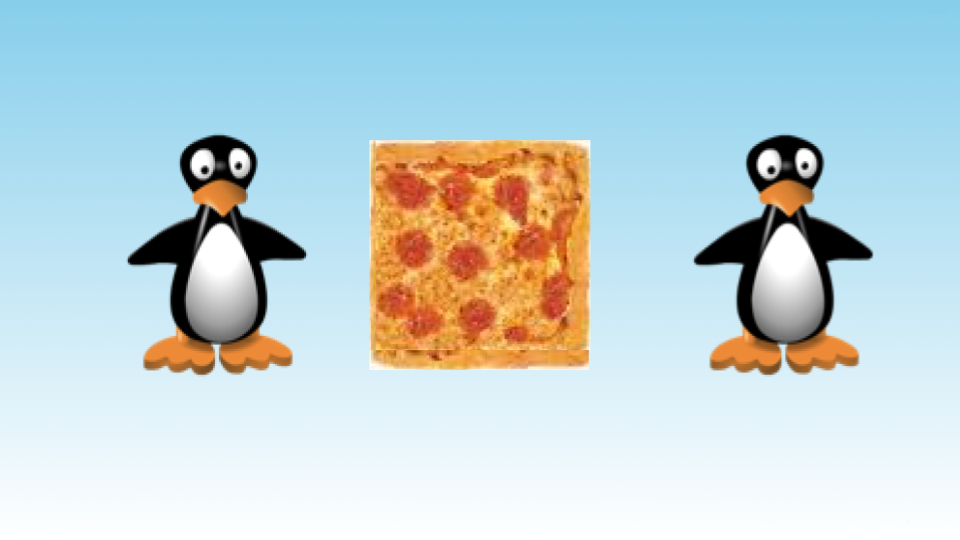
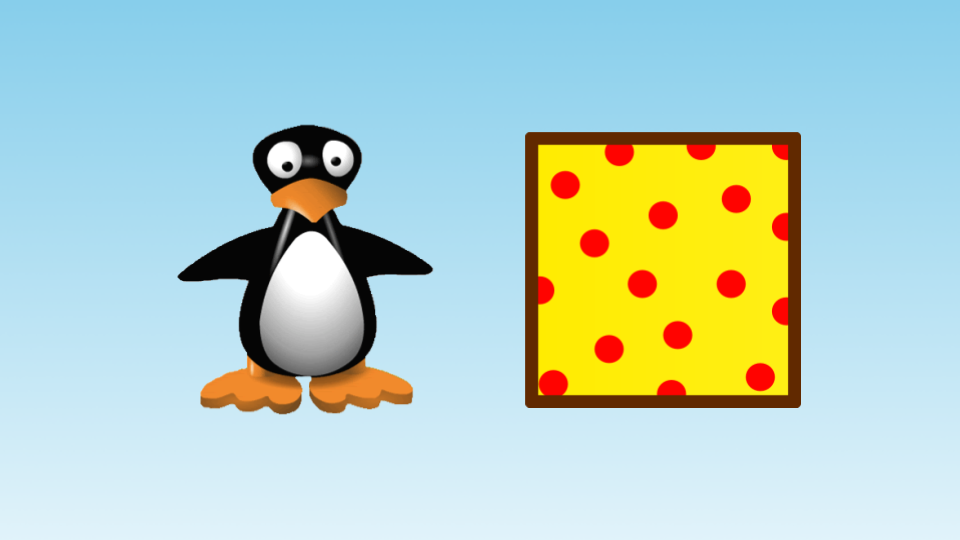
polish pass

diff --git a/src/components/ActivityCard.js b/src/components/ActivityCard.js
@@ -62,6 +62,13 @@ export default function ActivityCard(props) {
   const activitypath = '/activities/' + props.data.ID
   const pdf = `${props.PRINTOUTS}` 
 
+  console.log("printous",props.data)
+  const printouts = (props.data.PRINTOUTS && <Button className = "white"> 
+  <a target="_blank" className = "black-text" href = {`${props.data.PRINTOUTS}`}> 
+      Printouts
+  </a>
+  </Button>)
+
   return (
     <div className="card sticky-action">
     <div className="card-image waves-effect waves-block waves-light">
@@ -76,13 +83,8 @@ export default function ActivityCard(props) {
       <Link to = {props.data.TOOL}>
       <Button className = "white">Tool</Button>
       </Link>
-       <Button className = "white"> 
-        <a target="_blank" className = "black-text" href = {`${props.data.PRINTOUTS}`}> 
-            Printouts
-        </a>
-        </Button>
+      {printouts}
       </div>
-      
     <div className="card-reveal">
       <span className="card-title grey-text text-darken-4">{props.data.STANDARD_ID}<i className="material-icons right">close</i></span>
       <p>{props.data.DESCRIPTION}</p>

diff --git a/src/activitydata/gridnodes/building_non_unit_fractions.js b/src/activitydata/gridnodes/building_non_unit_fractions.js
@@ -1,6 +1,6 @@
 
 import {SCREEN_STATES,SCREEN_TYPES} from '../../js/states.js'
-import ICON from '../../assets/PizzaIcon.png'
+import ICON from '../../assets/BuildingIcon.png'
 
 const sequence = 
     [{
@@ -50,7 +50,7 @@ export const ACTIVITY = {
     ICON: ICON,
     TIME: 30,
     PAGES: 14,
-    TOOL: "/cuttinggridsnap4x4",
+    TOOL: "/gridnodes2x2",
     SCRIPT: "NODES_GRID",
     FEATURES: {x: 3,y: 3},
     MENU: ['Link One',"Link Two"],
@@ -62,7 +62,8 @@ export const ACTIVITY = {
     STANDARD_DESCRIPTION: "Understand two fractions as equivalent (equal) if they are the same size, or the same point on a number line.",
     TAGS: ["Place Value","Addition","First Grade"],
     LEARNING_GOAL: "goal for learning",
-    PDF: "/pdfs/BuildingNonUnitFractions.pdf"
+    PDF: "/pdfs/BuildingNonUnitFractions.pdf",
+    PRINTOUTS: "/pdfs/BuildingNonUnitFractions.pdf"
   }
 
 

diff --git a/src/activitydata/walltool/tile_greater_than_one.js b/src/activitydata/walltool/tile_greater_than_one.js
@@ -1,6 +1,6 @@
 
 import {SCREEN_STATES,SCREEN_TYPES} from '../../js/states.js'
-import ICON from '../../assets/PizzaIcon.png'
+import ICON from '../../assets/TilingOverOneIcon.png'
 
 const sequence = 
     [{
@@ -45,7 +45,7 @@ export const ACTIVITY = {
     ICON: ICON,
     TIME: 30,
     PAGES: 14,
-    TOOL: "/cuttinggridsnap4x4",
+    TOOL: "/walltool",
     SCRIPT: "WALL_TOOL",
     FEATURES: {x: 5,y: 5},
     MENU: ['Link One',"Link Two"],
@@ -57,7 +57,8 @@ export const ACTIVITY = {
     STANDARD_DESCRIPTION: "Understand two fractions as equivalent (equal) if they are the same size, or the same point on a number line.",
     TAGS: ["Place Value","Addition","First Grade"],
     LEARNING_GOAL: "goal for learning",
-    PDF: "/pdfs/TileGreaterThanOne.pdf"
+    PDF: "/pdfs/TileGreaterThanOne.pdf",
+    PRINTOUTS: 'something'
   }
 
 

diff --git a/src/js/numberlineproblems.js b/src/js/numberlineproblems.js
@@ -1390,8 +1390,9 @@ const PARTITIONING_ACTIVITY_ONE_TEACHER = [PARTITIONING_FOURTHS]
 const PARTITIONING_ACTIVITY_TWO = [PLACING_HALVES,PLACING_HALVES,PLACING_FOURTHS,PLACING_THIRDS,PLACING_SIXTHS]
 const PARTITIONING_ACTIVITY_TWO_TEACHER = [PLACING_SIXTHS]
 const TEST = [PARTITIONING_SIXTHS_WITH_PIN,PARTITIONING_FOURTHS_WITH_PIN]
-
+const DEMO = [PARTITIONING_FOURTHS,PLACING_FOURTHS,PARTITIONING_SIXTHS_WITH_PIN]
 export const NUMBERLINE_ACTIVITIES = {
+  'DEMO': DEMO,
   'TEST': TEST,
   'PARTITIONING_ACTIVITY_ONE': PARTITIONING_ACTIVITY_ONE,
   'PARTITIONING_ACTIVITY_TWO': PARTITIONING_ACTIVITY_TWO,

diff --git a/src/activitydata/cuttingtool/jiji_sharing_pizza_data.js b/src/activitydata/cuttingtool/jiji_sharing_pizza_data.js
@@ -64,7 +64,7 @@ export const ACTIVITY = {
     ICON: ICON,
     TIME: 30,
     PAGES: 14,
-    TOOL: "/cuttinggridsnap4x4",
+    TOOL: "/gridcuttingsnap4x4",
     SCRIPT: "CUTTING_GRID",
     FEATURES: {x: 5,y: 5},
     MENU: ['Link One',"Link Two"],
@@ -77,7 +77,8 @@ export const ACTIVITY = {
     TAGS: ["Place Value","Addition","First Grade"],
     LEARNING_GOAL: "goal for learning",
     PDF: "/pdfs/JijiSharingPizza.pdf",
-    GRAPHIC_ORGANIZER: "pdf from erich goes here."
+    GRAPHIC_ORGANIZER: "pdf from erich goes here.",
+    PRINTOUTS: 'something'
   }
 
 

diff --git a/src/activitydata/placingnumbers/partitioning_number_lines.js b/src/activitydata/placingnumbers/partitioning_number_lines.js
@@ -1,6 +1,6 @@
 
 import {SCREEN_STATES,SCREEN_TYPES} from '../../js/states.js'
-import ICON from '../../assets/PizzaIcon.png'
+import ICON from '../../assets/PartitioningIcon.png'
 const sequence = 
     [{
       screenType: SCREEN_TYPES.FULL_PROMPT,
@@ -53,7 +53,7 @@ export const ACTIVITY = {
     ICON: ICON,
     TIME: 30,
     PAGES: 4,
-    TOOL: "/cuttinggridsnap4x4",
+    TOOL: "/placingnumbers",
     SCRIPT: "PLACING_NUMBERS",
     FEATURES: {x: 5,y: 5},
     MENU: ['Link One',"Link Two"],

diff --git a/src/js/placingnumbers.js b/src/js/placingnumbers.js
@@ -32,7 +32,7 @@ const BLOCK_HEIGHT = dim/4
 
 // Problem que setup
 let PROBLEM_QUE;
-const ACTIVITY_ID = setup.props.currentPanel.puzzle ? setup.props.currentPanel.puzzle : 'DEFAULT'
+const ACTIVITY_ID = setup.props.currentPanel ? setup.props.currentPanel.puzzle : 'DEMO'
 console.log("Activity ID",ACTIVITY_ID)
 PROBLEM_QUE = PROBLEMS.NUMBERLINE_ACTIVITIES[ACTIVITY_ID];
 let numberOfProblems = PROBLEM_QUE.length;

diff --git a/src/activitydata/hundredsgrid/buildingnumbers/building_numbers_data.js b/src/activitydata/hundredsgrid/buildingnumbers/building_numbers_data.js
@@ -16,5 +16,6 @@ export const ACTIVITY = {
     STANDARD_DESCRIPTION: "Hello",
     TAGS: ["Place Value","Addition","First Grade"],
     LEARNING_GOAL: "goal for learning",
-    GROUPING: "whole class?"
+    GROUPING: "whole class?",
+    PRINTOUTS: 'something'
   }
